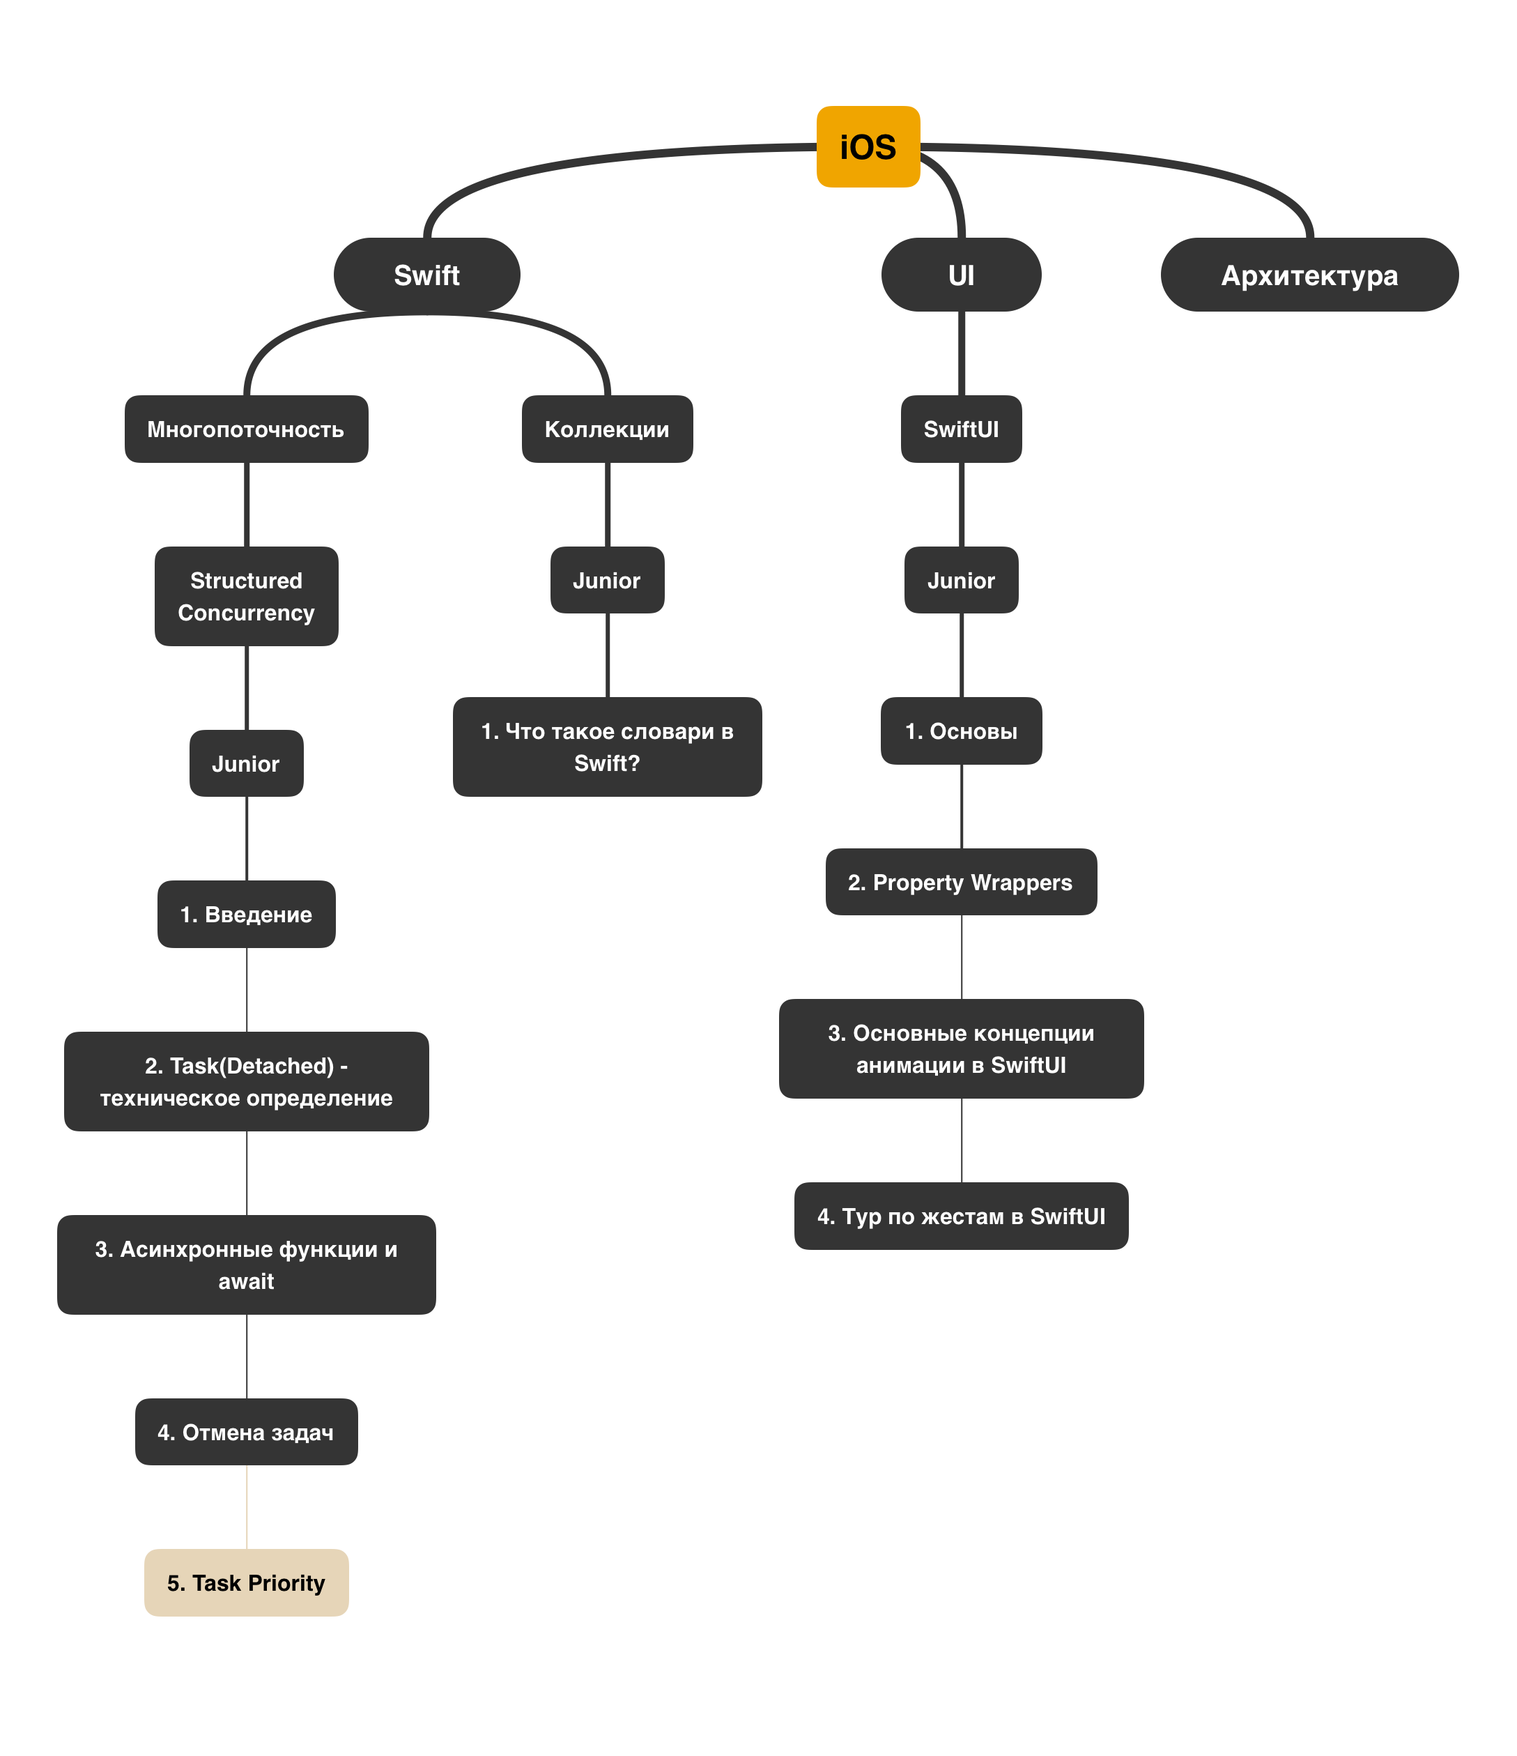
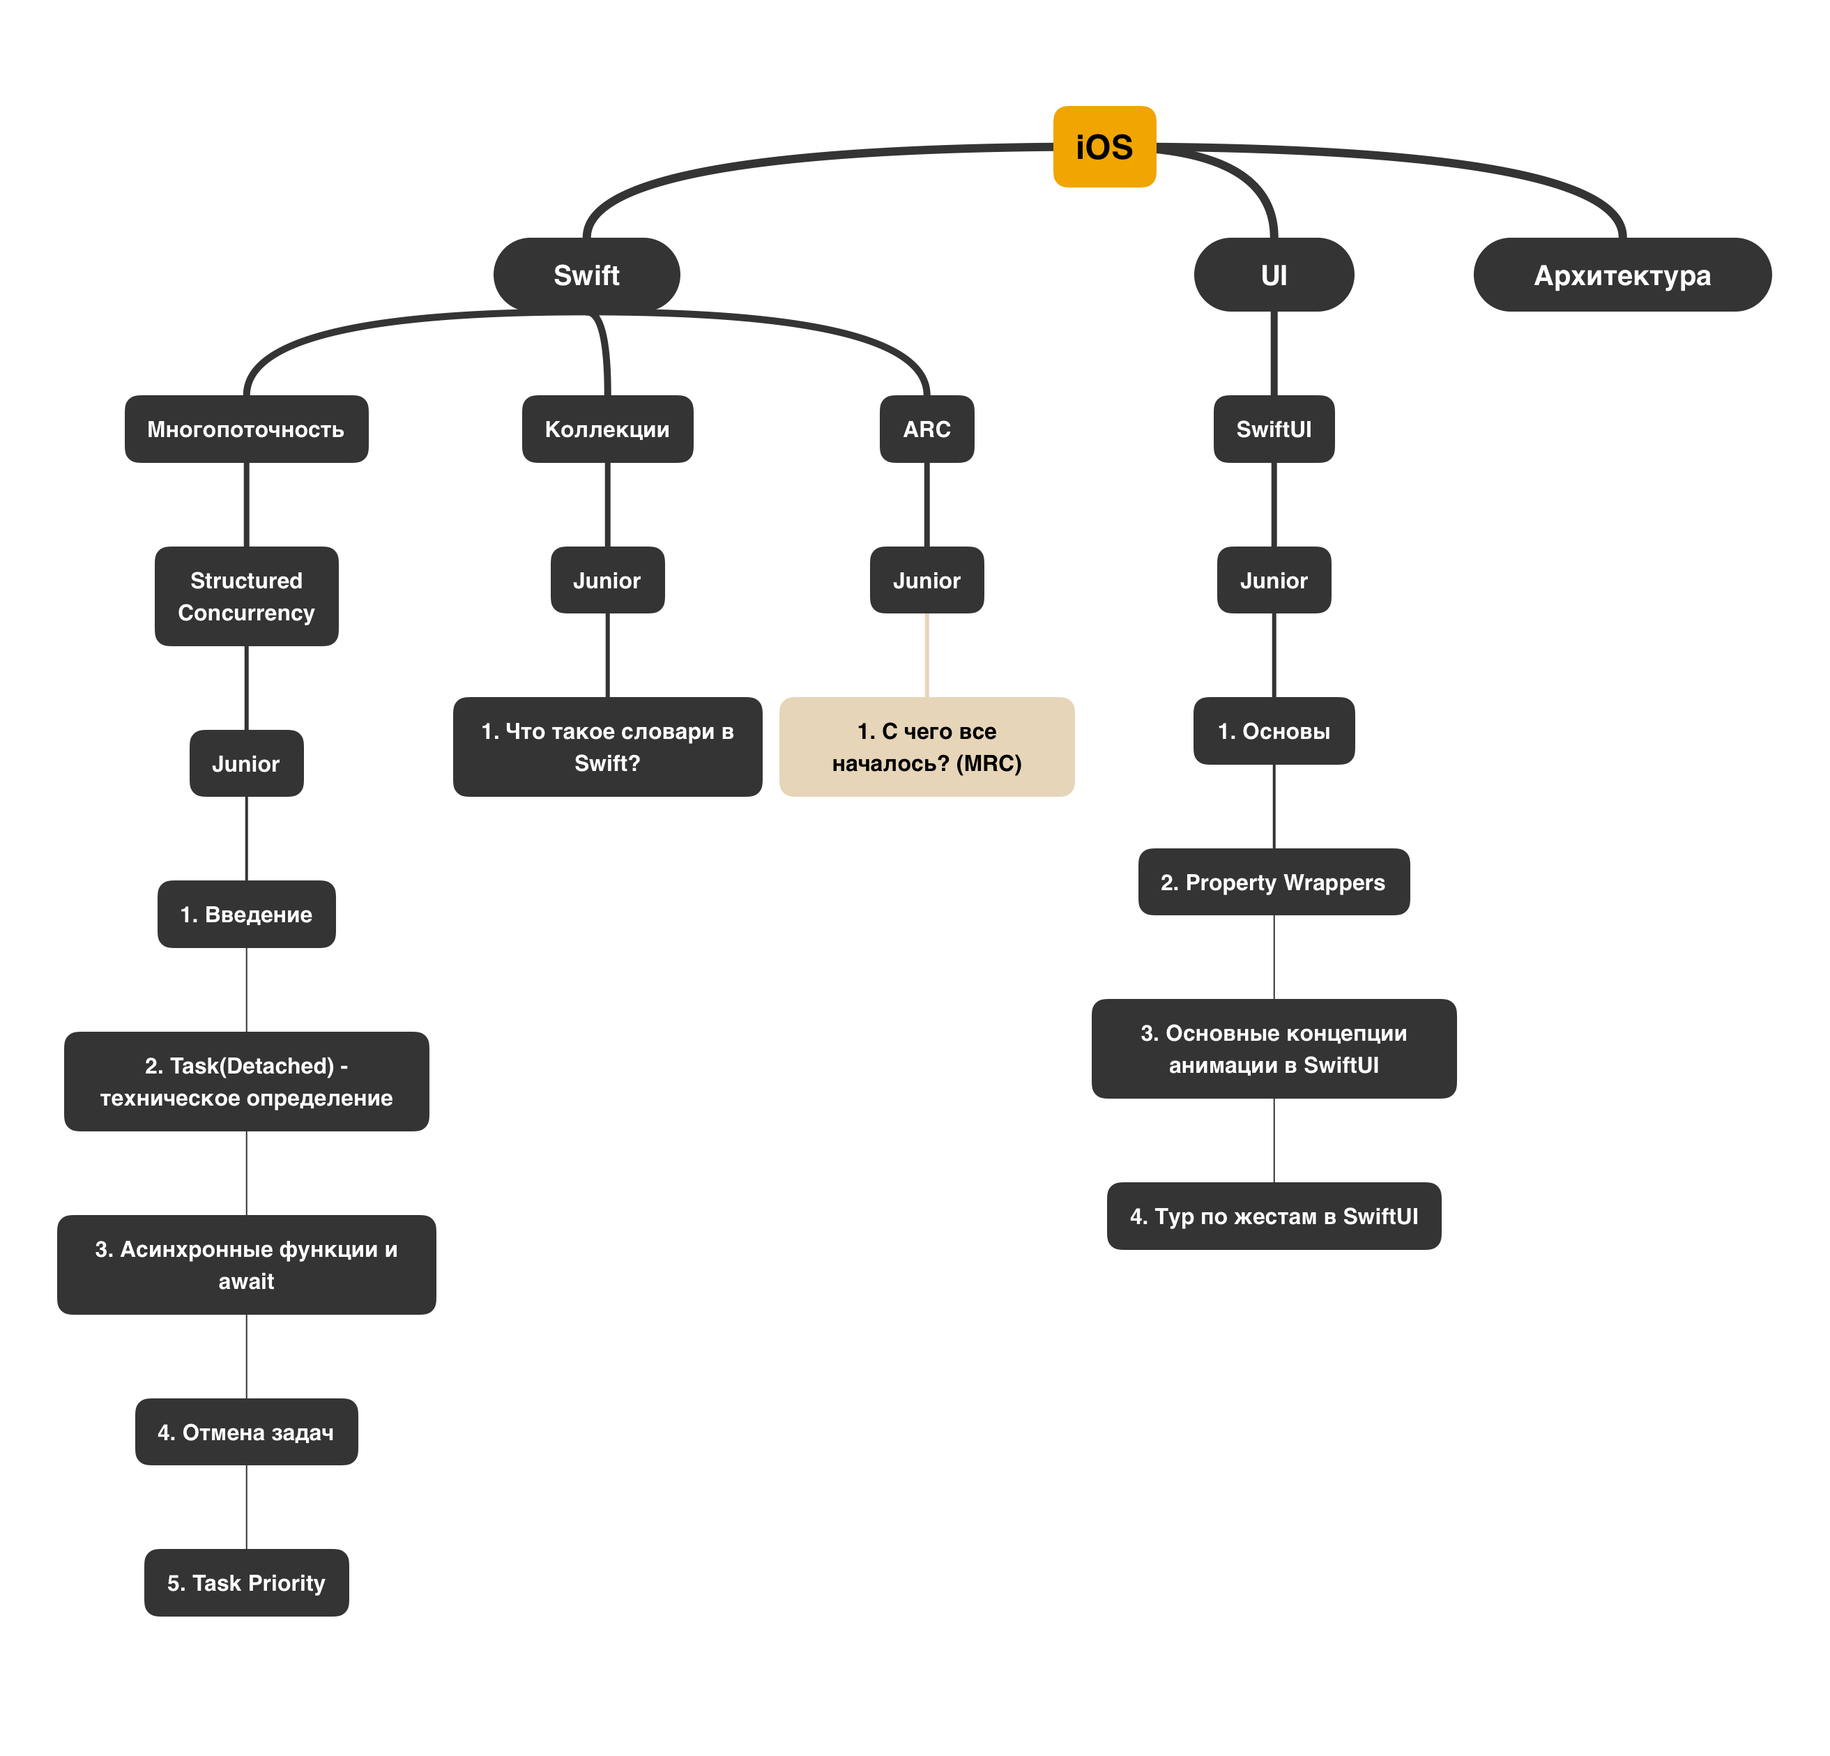
Первый топик по теме ARC (#1)
* Первый топик по теме ARC

* add some formatting fix

* update main scheme

---------

diff --git a/docs/stylesheets/extra.css b/docs/stylesheets/extra.css
@@ -7,6 +7,7 @@
     h1, h2, h3, h4, h5, h6 {
         margin-top: 20px;
         margin-bottom: 15px;
+        font-weight: bold;
     }
 
     ul, ol {
@@ -40,6 +41,7 @@
   h1, h2, h3, h4, h5, h6 {
       margin-top: 20px;
       margin-bottom: 15px;
+      font-weight: bold;
   }
 
   ul, ol {

diff --git a/docs/Swift/ARC/Junior/1. С чего все началось? (MRC).md b/docs/Swift/ARC/Junior/1. С чего все началось? (MRC).md
@@ -1,0 +1,114 @@
+
+---
+> **Изучение данного блока предполагает предварительное знание синтаксиса языка Swift.**
+*Для успешного освоения этого материала, необходимо иметь базовое понимание синтаксиса языка Swift/Obj C. Это включает в себя знание основных структур данных, операторов, циклов, функций, абстракций и других ключевых элементов языка. Без этих фундаментальных знаний будет сложно понять более сложные концепции и примеры, которые будут рассматриваться в данном блоке.*
+> 
+---
+
+**MRC (Manual Retain-Release Counting)** — это механизм управления памятью, который использовался в языке программирования Objective-C до появления автоматического управления памятью (**ARC — Automatic Reference Counting**, *о нем мы поговорим в следующих статьях*). 
+
+В MRC разработчики вручную контролировали время жизни объектов, вызывая методы управления ссылками. Это требовало тщательного понимания работы подсчёта ссылок, структуры объектов в памяти и правил их использования.
+
+### Исторический контекст
+До введения **ARC**, управление памятью в **Objective-C** было одной из сложнейших задач для разработчиков. Подсчёт ссылок требовал высокой дисциплины: ошибка могла привести либо к утечкам памяти (**memory leaks**), либо к преждевременному освобождению объектов и последующим сбоям (**dangling pointers**). **MRC** был тесно связан с фундаментальными принципами работы **runtime** системы **Objective-C**, что обеспечивало низкоуровневый контроль над памятью, но также вносило значительные риски и увеличивало сложность разработки.
+### **Reference Counting**
+**Подсчёт ссылок** — это механизм, при котором каждый объект отслеживает количество активных ссылок на него. Когда объект создаётся, его **счётчик ссылок (retain count)** устанавливается в 1. Каждый раз, когда кто-то “удерживает” объект, счётчик увеличивается на 1, а когда освобождает — уменьшается на 1. Когда счётчик достигает нуля, объект освобождается из памяти.
+### Основные понятия MRC
+**MRC** базировался на подсчёте ссылок для управления временем жизни объектов. В основе этого механизма были четыре ключевых метода: `alloc`, `retain`, `release`, и `autorelease`.
+
+#### **`alloc/init` — инициализация объекта**
+При создании нового объекта с помощью `alloc`, его счётчик ссылок (**retain count**) устанавливается в 1. Это означает, что объект будет жить в памяти до тех пор, пока его кто-то “удерживает”.
+
+Метод `init` используется для инициализации состояния объекта после его создания.
+```objective-c
+MyClass *obj = [[MyClass alloc] init]; // retain count = 1
+```
+#### **`retain` — увеличение счётчика ссылок**
+`retain` увеличивает счётчик ссылок объекта на единицу, указывая, что кто-то ещё нуждается в объекте. Это предотвращает его удаление до тех пор, пока счётчик ссылок не снизится до нуля.
+```objective-c
+[obj retain]; // retain count = 2
+```
+#### **`release` — уменьшение счётчика ссылок**
+`release` уменьшает счётчик ссылок на единицу. Если счётчик достигает нуля, вызывается метод `dealloc`, и объект освобождается из памяти.
+```objective-c
+[obj release]; // retain count = 1
+[obj release]; // retain count = 0, объект удалён
+```
+#### **`autorelease` — отложенное освобождение**
+`autorelease` добавляет объект в **autorelease pool**, который действует в рамках текущего цикла выполнения (**run loop**). Объект будет автоматически освобождён при завершении текущего цикла.
+```objective-c
+[obj autorelease]; // Объект будет освобождён в будущем
+```
+## **Autorelease Pool**
+Это механизм, позволяющий откладывать освобождение объектов до определённого момента в будущем. Когда объекту отправляется сообщение **autorelease**, он добавляется в текущий активный **Autorelease Pool**. При опустошении пула всем объектам в нём отправляется сообщение **release**.
+#### Как это работает?
+1. Создаётся новый **Autorelease Pool**, который начинает собирать объекты.
+2. При вызове **[object autorelease]** объект добавляется в текущий пул (**retain count** объекта не изменяется сразу).
+3. При вызове **[pool drain]** или выходе из блока **@autoreleasepool**, всем объектам в пуле отправляется **release**.
+4. Если **retain count** достигает 0, объект освобождается.
+
+Пулы могут быть вложенными, объекты освобождаются при опустошении соответствующего пула.
+## **Проблемы и нюансы работы с MRC**
+#### **Memory Leaks**
+Объект остаётся в памяти, потому что **release** не был вызван достаточное количество раз.
+```objective-c
+(void)createObject {
+    MyClass *obj = [[MyClass alloc] init];
+    // Нет вызова [obj release]; утечка памяти
+}
+```
+К последствиям можно отнести повышенное потребление памяти, и как следствие, краш приложения из-за нехватки ресурсов. 
+#### **Dangling Pointers**
+Обращение к объекту после его освобождения.
+```objective-c
+MyClass *obj = [[MyClass alloc] init];
+[obj release];
+obj = nil;
+[obj doSomething]; // Без обнуления obj это приведёт к крашу
+```
+#### **Retain Cycles**
+Два или более объекта удерживают друг друга, и ни один не освобождается.
+```objective-c
+// Parent.h
+@interface Parent : NSObject
+@property (nonatomic, retain) Child *child;
+@end
+
+// Child.h
+@interface Child : NSObject
+@property (nonatomic, retain) Parent *parent;
+@end
+```
+Решение:
+```objective-c
+// Child.h
+@interface Child : NSObject
+@property (nonatomic, assign) Parent *parent; // Используем assign
+@end
+```
+#### **Каскадное освобождение объектов**
+При освобождении объекта необходимо освободить все объекты, которыми он владеет.
+```objective-c
+@interface MyClass : NSObject
+@property (nonatomic, retain) NSString *name;
+@property (nonatomic, retain) NSArray *items;
+@end
+
+@implementation MyClass
+
+- (void)dealloc {
+    [_name release];
+    [_items release];
+    [super dealloc];
+}
+
+@end
+```
+#### **Сложность при управлении большими проектами**
+В больших кодовых базах управление памятью вручную может стать сложной задачей, так как необходимо тщательно отслеживать, кто и когда владеет объектом. Один пропущенный вызов `release` может привести к утечкам, тогда как слишком частое его использование — к крашам.
+#### **Избыточность кода**
+Каждый объект должен быть правильно удержан и освобождён. Это приводит к значительному увеличению кода, в котором нужно постоянно вызывать `retain` и `release`.
+## **Переход от MRC к ARC**
+С выходом **Xcode 4.2** был представлен **ARC (Automatic Reference Counting)**, который существенно упростил работу с памятью. В **ARC** вызовы `retain`, `release`, и `autorelease` генерируются автоматически компилятором, что устраняет необходимость ручного управления памятью. **ARC** также минимизирует вероятность утечек памяти и ошибок, связанных с **dangling pointers**.
+
+Однако **ARC** по сути является обёрткой над **MRC** и использует тот же механизм подсчёта ссылок, освобождая разработчиков от необходимости вызывать методы `retain` и `release`, о чём мы более подробно поговорим в следующей части этого раздела.
